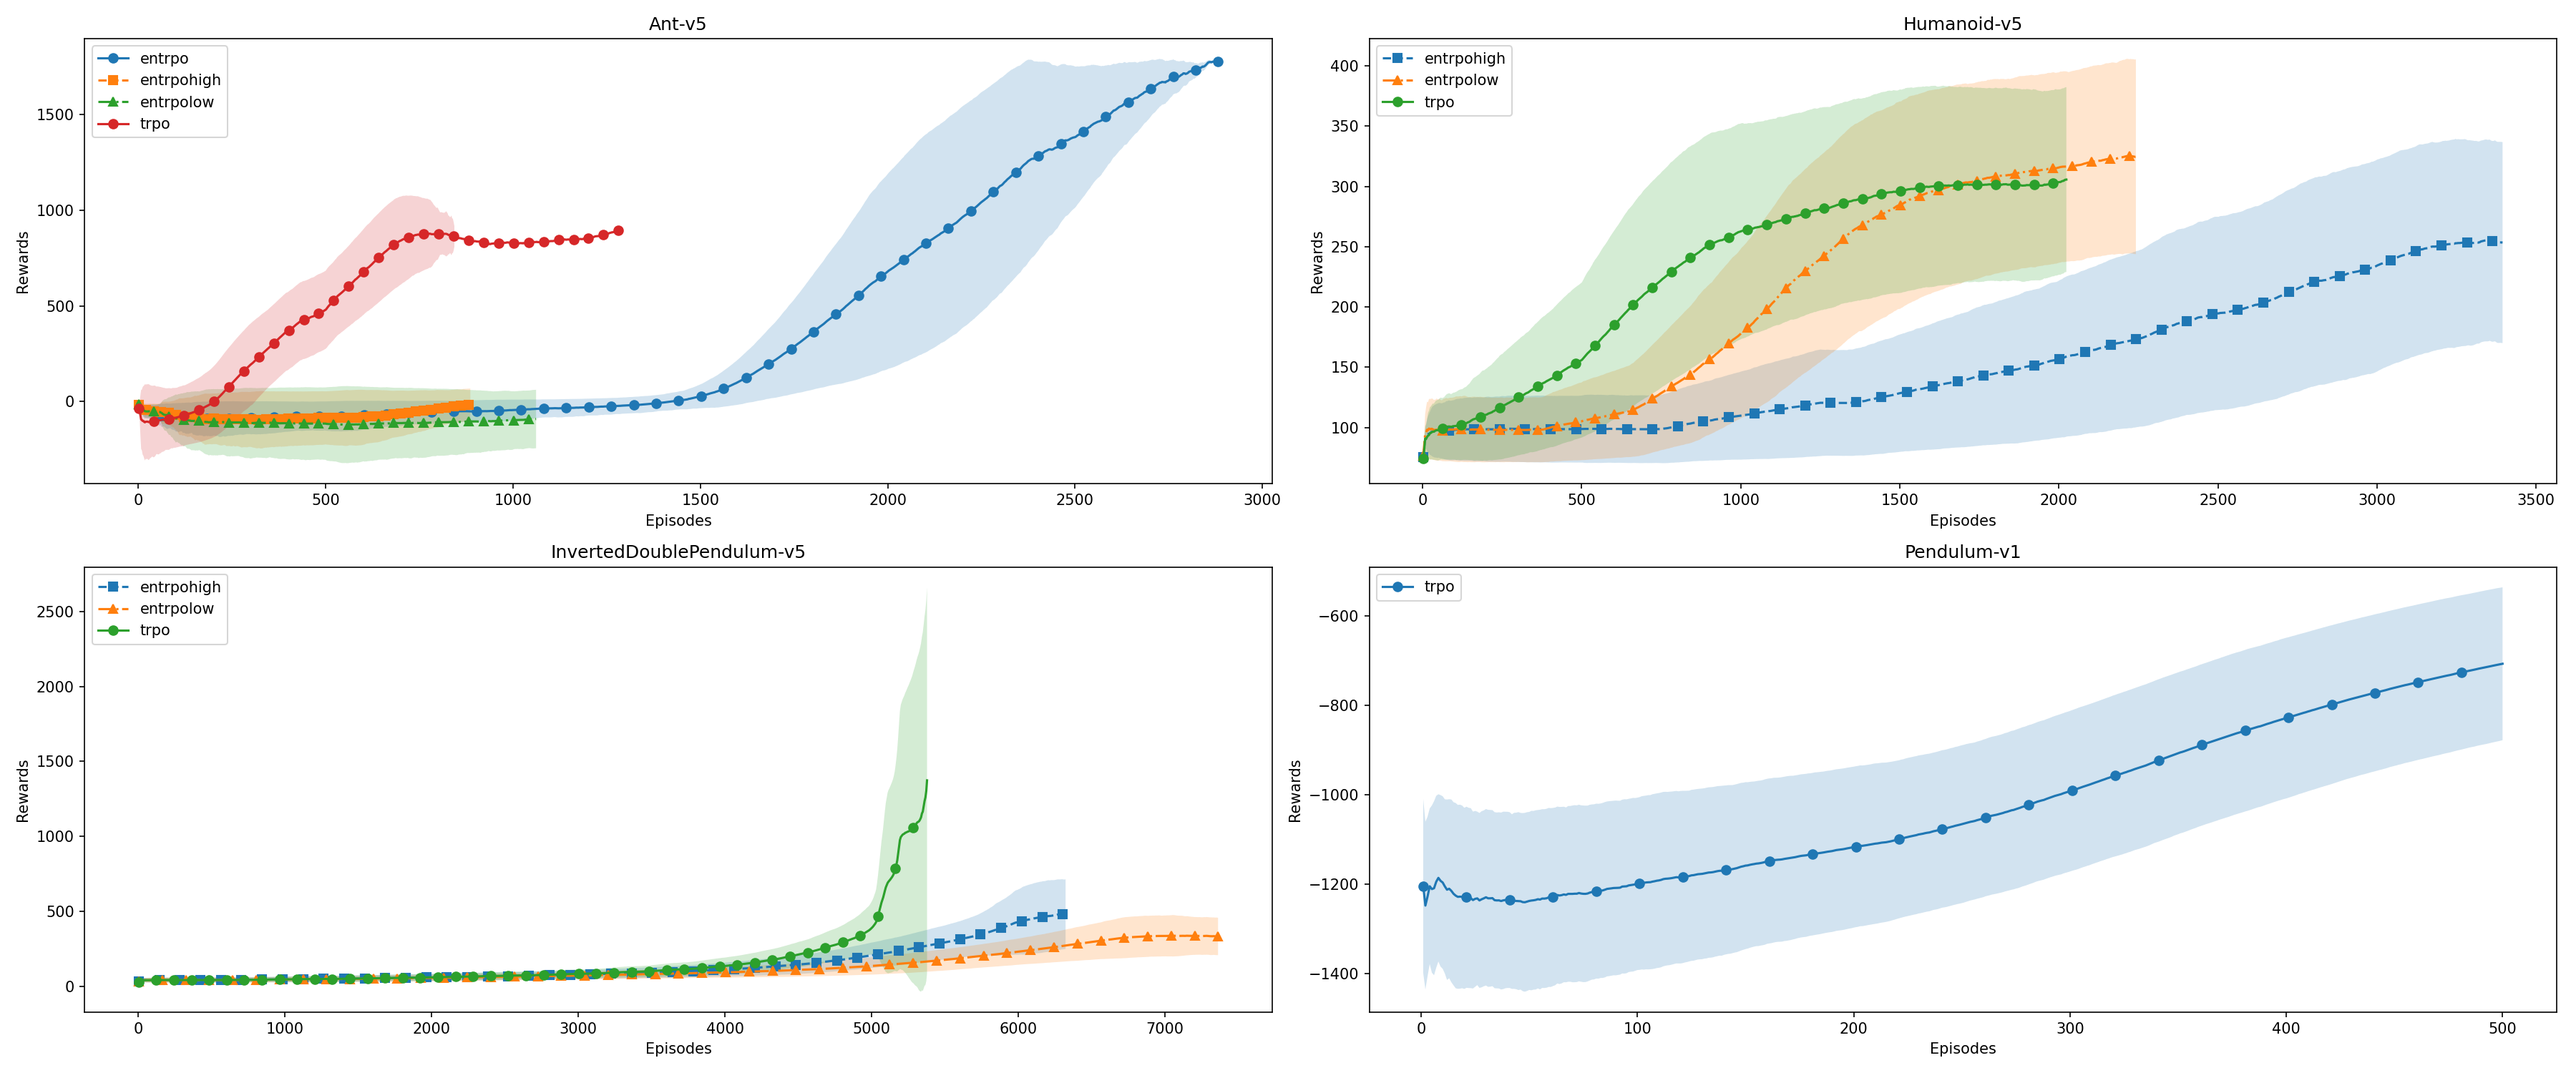
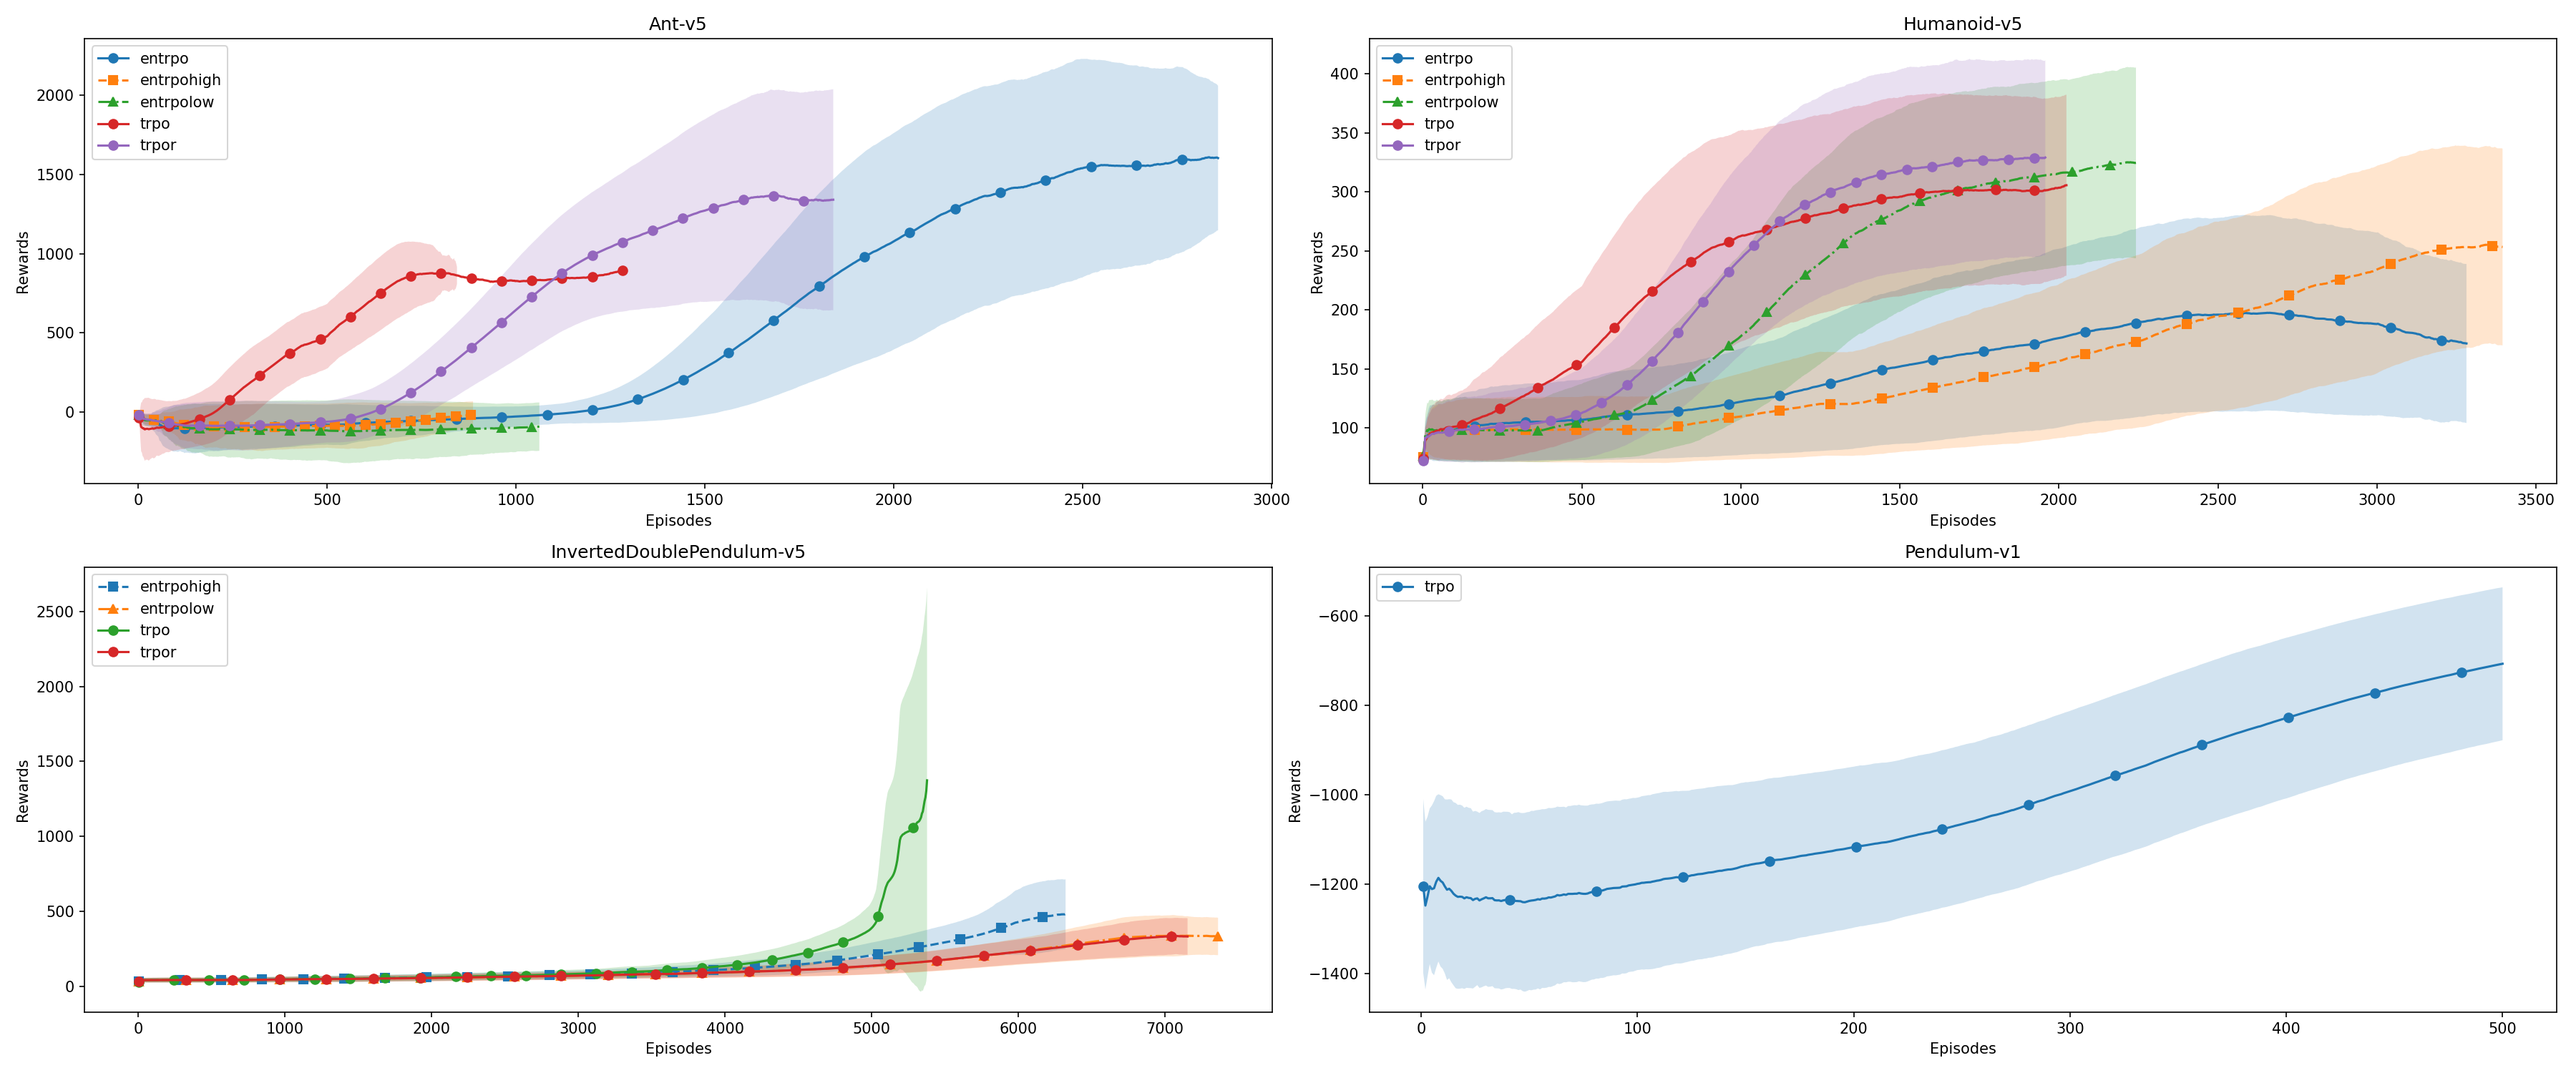
better plots

diff --git a/zoo/train_eval_plot.py b/zoo/train_eval_plot.py
@@ -52,7 +52,7 @@ def plot_all_from_csv(csv_path, results_dir, filter_envs=None, filter_models=Non
   line_styles = ["-", "--", "-.", ":"]
   markers = ["o", "s", "^", "D"]
   max_points = 1000
-  marker_interval = max(1, max_points // 50)
+  marker_interval = max(1, max_points // 25)
 
   # Predefine style and marker mappings for consistent ordering
   all_models = sorted(results_df["Model"].unique())
@@ -134,6 +134,12 @@ def group_paths_by_env(paths):
   return dict(grouped)
 
 
+def resample_to_fixed_points(run_data, num_points, common_timesteps):
+  normalized_timesteps = (run_data.index - run_data.index.min()) / (run_data.index.max() - run_data.index.min())
+  interpolated_rewards = np.interp(common_timesteps, normalized_timesteps, run_data["Reward"])
+  return pd.DataFrame({"Timesteps": common_timesteps, "Reward": interpolated_rewards})
+
+
 # Good
 def plot_from_path(env_path, results_dir, filter_envs=None, filter_models=None):
   csv_files = get_data_csv_files(env_path)
@@ -148,12 +154,164 @@ def plot_from_path(env_path, results_dir, filter_envs=None, filter_models=None):
     grouped = {env: [path for path in paths if any(model in path for model in filter_models)] for env, paths in grouped.items()}
 
   plot_rewards_from_grouped_paths(grouped, results_dir)
+  plot_sample_efficiency(grouped, results_dir)
+  plot_learning_stability(grouped, results_dir)
+  plot_learning_stability_cv(grouped, results_dir)
+  plot_sample_efficiency_combined(grouped, results_dir)
 
 
-def resample_to_fixed_points(run_data, num_points, common_timesteps):
-  normalized_timesteps = (run_data.index - run_data.index.min()) / (run_data.index.max() - run_data.index.min())
-  interpolated_rewards = np.interp(common_timesteps, normalized_timesteps, run_data["Reward"])
-  return pd.DataFrame({"Timesteps": common_timesteps, "Reward": interpolated_rewards})
+def plot_learning_stability_cv(grouped, results_dir, num_points=10000):
+  """
+    Plots learning stability using the Coefficient of Variation (CV) to show relative variability.
+
+    Args:
+        grouped (dict): Dictionary with environments as keys and lists of file paths as values.
+        results_dir (str): Directory to save the resulting plots.
+    """
+  os.makedirs(results_dir, exist_ok=True)
+
+  n_envs = len(grouped)
+  n_cols = (n_envs + 1) // 2
+  fig, axes = plt.subplots(2, n_cols, figsize=(12 * n_cols, 10), dpi=150)
+  axes = axes.flatten()
+
+  # Define consistent styles and markers
+  all_models = sorted(set(model for paths in grouped.values() for path in paths for model in [os.path.basename(os.path.dirname(os.path.dirname(path)))]))
+  line_styles = ["-", "--", "-.", ":"]
+  markers = ["o", "s", "^", "D"]
+  style_mapping = {model: line_styles[i % len(line_styles)] for i, model in enumerate(all_models)}
+  marker_mapping = {model: markers[i % len(markers)] for i, model in enumerate(all_models)}
+
+  for ax, (env, paths) in zip(axes, sorted(grouped.items())):
+    model_aggregated = {}
+    common_timesteps = np.linspace(0, 1, num=num_points)  # Normalize timesteps
+
+    for file_path in sorted(paths):
+      if os.path.exists(file_path):
+        model = os.path.basename(os.path.dirname(os.path.dirname(file_path)))  # Extract model name
+        run_data = pd.read_csv(file_path)
+        run_data.set_index("Timesteps", inplace=True)
+
+        # Resample rewards for consistent comparison
+        resampled_data = resample_to_fixed_points(run_data, num_points, common_timesteps)
+
+        downsampled_timesteps, downsampled_rewards = downsample_data_with_smoothing(
+          resampled_data.index, resampled_data["Reward"], max_points=100, window_size=1000
+        )
+
+        if model not in model_aggregated:
+          model_aggregated[model] = []
+        model_aggregated[model].append(pd.Series(downsampled_rewards, index=downsampled_timesteps))
+
+    for model in sorted(model_aggregated.keys()):
+      rewards_list = model_aggregated[model]
+      if rewards_list:
+        stacked_rewards = pd.concat(rewards_list, axis=1)
+        mean_rewards = stacked_rewards.mean(axis=1)
+        std_rewards = stacked_rewards.std(axis=1)
+
+        # Calculate Coefficient of Variation (CV)
+        cv = std_rewards / mean_rewards.replace(0, np.nan)  # Avoid division by zero
+
+        # Plot CV
+        ax.plot(mean_rewards.index, cv, label=f"{model} CV", linewidth=1.5, linestyle=style_mapping[model], marker=marker_mapping[model], markevery=5)
+
+    ax.set_title(f"Environment: {env}")
+    ax.set_xlabel("Normalized Episodes")
+    ax.set_ylabel("Coefficient of Variation (CV)")
+    ax.legend(loc="upper left")
+
+  for ax in axes[len(grouped) :]:
+    ax.axis("off")
+
+  plt.tight_layout()
+  plot_path = os.path.join(results_dir, "learning_stability_cv.png")
+  plt.savefig(plot_path, dpi=150)
+  plt.close()
+  print(f"Learning stability (CV) plot saved at: {plot_path}")
+
+
+def plot_learning_stability(grouped, results_dir, num_points=10000):
+  """
+    Plots learning stability by showing mean rewards with standard deviation as a shaded region.
+
+    Args:
+        grouped (dict): Dictionary with environments as keys and lists of file paths as values.
+        results_dir (str): Directory to save the resulting plots.
+    """
+  os.makedirs(results_dir, exist_ok=True)
+
+  n_envs = len(grouped)
+  n_cols = (n_envs + 1) // 2
+  fig, axes = plt.subplots(2, n_cols, figsize=(12 * n_cols, 10), dpi=150)
+  axes = axes.flatten()
+
+  # Define consistent styles and markers
+  all_models = sorted(set(model for paths in grouped.values() for path in paths for model in [os.path.basename(os.path.dirname(os.path.dirname(path)))]))
+  line_styles = ["-", "--", "-.", ":"]
+  markers = ["o", "s", "^", "D"]
+  style_mapping = {model: line_styles[i % len(line_styles)] for i, model in enumerate(all_models)}
+  marker_mapping = {model: markers[i % len(markers)] for i, model in enumerate(all_models)}
+
+  for ax, (env, paths) in zip(axes, sorted(grouped.items())):
+    model_aggregated = {}
+    common_timesteps = np.linspace(0, 1, num=num_points)  # Normalize timesteps
+
+    for file_path in sorted(paths):
+      if os.path.exists(file_path):
+        model = os.path.basename(os.path.dirname(os.path.dirname(file_path)))  # Extract model name
+        run_data = pd.read_csv(file_path)
+        run_data.set_index("Timesteps", inplace=True)
+
+        # Resample rewards for consistent comparison
+        resampled_data = resample_to_fixed_points(run_data, num_points, common_timesteps)
+
+        downsampled_timesteps, downsampled_rewards = downsample_data_with_smoothing(
+          resampled_data.index, resampled_data["Reward"], max_points=1000, window_size=500
+        )
+
+        if model not in model_aggregated:
+          model_aggregated[model] = []
+        model_aggregated[model].append(pd.Series(downsampled_rewards, index=downsampled_timesteps))
+
+    for model in sorted(model_aggregated.keys()):
+      rewards_list = model_aggregated[model]
+      if rewards_list:
+        stacked_rewards = pd.concat(rewards_list, axis=1)
+        mean_rewards = stacked_rewards.mean(axis=1)
+        std_rewards = stacked_rewards.std(axis=1)
+
+        # Plot mean with standard deviation
+        ax.fill_between(
+          mean_rewards.index,
+          mean_rewards - std_rewards,
+          mean_rewards + std_rewards,
+          alpha=0.2,
+          label=f"{model} ± std",
+        )
+        ax.plot(
+          mean_rewards.index,
+          mean_rewards,
+          label=model,
+          linewidth=1.5,
+          linestyle=style_mapping[model],
+          marker=marker_mapping[model],
+          markevery=50,
+        )
+
+    ax.set_title(f"Environment: {env}")
+    ax.set_xlabel("Normalized Episodes")
+    ax.set_ylabel("Reward")
+    ax.legend(loc="upper left")
+
+  for ax in axes[len(grouped) :]:
+    ax.axis("off")
+
+  plt.tight_layout()
+  plot_path = os.path.join(results_dir, "learning_stability.png")
+  plt.savefig(plot_path, dpi=150)
+  plt.close()
+  print(f"Learning stability plot saved at: {plot_path}")
 
 
 def plot_rewards_from_grouped_paths(grouped, results_dir, num_points=10000):
@@ -171,7 +329,7 @@ def plot_rewards_from_grouped_paths(grouped, results_dir, num_points=10000):
   style_mapping = {model: line_styles[i % len(line_styles)] for i, model in enumerate(all_models)}
   marker_mapping = {model: markers[i % len(markers)] for i, model in enumerate(all_models)}
   max_points = 1000
-  marker_interval = max(1, max_points // 50)
+  marker_interval = max(1, max_points // 25)
 
   for ax, (env, paths) in zip(axes, sorted(grouped.items())):  # Sort environments for consistent order
     model_aggregated = {}
@@ -232,6 +390,151 @@ def plot_rewards_from_grouped_paths(grouped, results_dir, num_points=10000):
   plt.savefig(plot_path, dpi=150)
   plt.close()
   print(f"Combined plot for all environments saved at: {plot_path}")
+
+
+def plot_sample_efficiency(grouped, results_dir, filter_envs=None, filter_models=None):
+  """
+    Plots sample efficiency for grouped paths based on episode counts within a fixed timestep budget.
+
+    Args:
+        grouped (dict): Dictionary with environments as keys and lists of file paths as values.
+        results_dir (str): Directory to save the resulting plots.
+    """
+  os.makedirs(results_dir, exist_ok=True)
+
+  n_envs = len(grouped)
+  n_cols = (n_envs + 1) // 2
+  fig, axes = plt.subplots(2, n_cols, figsize=(12 * n_cols, 10), dpi=150)
+  axes = axes.flatten()
+
+  # Define consistent styles and markers
+  all_models = sorted(set(model for paths in grouped.values() for path in paths for model in [os.path.basename(os.path.dirname(os.path.dirname(path)))]))
+  line_styles = ["-", "--", "-.", ":"]
+  markers = ["o", "s", "^", "D"]
+  style_mapping = {model: line_styles[i % len(line_styles)] for i, model in enumerate(all_models)}
+  marker_mapping = {model: markers[i % len(markers)] for i, model in enumerate(all_models)}
+
+  # Timestep budget
+  timestep_budget = 1_000_000
+
+  for ax, (env, paths) in zip(axes, sorted(grouped.items())):
+    model_episode_counts = {}
+
+    for file_path in sorted(paths):
+      if os.path.exists(file_path):
+        model = os.path.basename(os.path.dirname(os.path.dirname(file_path)))  # Extract model name
+        run_data = pd.read_csv(file_path)
+
+        # Filter data to only timesteps within the budget
+        within_budget = run_data[run_data["Timesteps"] <= timestep_budget]
+
+        # Count episodes within the budget
+        num_episodes = len(within_budget)
+
+        if model not in model_episode_counts:
+          model_episode_counts[model] = []
+        model_episode_counts[model].append(num_episodes)
+
+    # Plot episode counts for each model
+    for model in sorted(model_episode_counts.keys()):
+      episode_counts = model_episode_counts[model]
+      mean_episodes = np.mean(episode_counts)
+      std_episodes = np.std(episode_counts)
+
+      line_style = style_mapping[model]
+      marker = marker_mapping[model]
+
+      ax.bar(model, mean_episodes, yerr=std_episodes, capsize=5, label=model, alpha=0.75)
+
+    ax.set_title(f"Environment: {env}")
+    ax.set_ylabel("Episodes Completed")
+    ax.set_xlabel("Models")
+    ax.legend(loc="upper left")
+
+  for ax in axes[len(grouped) :]:
+    ax.axis("off")
+
+  plt.tight_layout()
+  plot_path = os.path.join(results_dir, "sample_efficiency.png")
+  plt.savefig(plot_path, dpi=150)
+  plt.close()
+  print(f"Sample efficiency plot saved at: {plot_path}")
+
+
+def plot_sample_efficiency_combined(grouped, results_dir, filter_envs=None, filter_models=None):
+  """
+    Plots combined sample efficiency for all environments based on episode counts within a fixed timestep budget.
+
+    Args:
+        grouped (dict): Dictionary with environments as keys and lists of file paths as values.
+        results_dir (str): Directory to save the resulting plot.
+        filter_envs (list): List of environments to include (default: all).
+        filter_models (list): List of models to include (default: all).
+    """
+  os.makedirs(results_dir, exist_ok=True)
+
+  # Define consistent styles and markers
+  all_models = sorted(set(model for paths in grouped.values() for path in paths for model in [os.path.basename(os.path.dirname(os.path.dirname(path)))]))
+  line_styles = ["-", "--", "-.", ":"]
+  markers = ["o", "s", "^", "D"]
+  style_mapping = {model: line_styles[i % len(line_styles)] for i, model in enumerate(all_models)}
+  marker_mapping = {model: markers[i % len(markers)] for i, model in enumerate(all_models)}
+
+  # Timestep budget
+  timestep_budget = 1_000_000
+  combined_model_data = {model: [] for model in all_models}
+
+  # Aggregate episode counts across environments
+  for env, paths in grouped.items():
+    if filter_envs and env not in filter_envs:
+      continue
+
+    model_episode_counts = {}
+
+    for file_path in sorted(paths):
+      if os.path.exists(file_path):
+        model = os.path.basename(os.path.dirname(os.path.dirname(file_path)))  # Extract model name
+        if filter_models and model not in filter_models:
+          continue
+
+        run_data = pd.read_csv(file_path)
+
+        # Filter data to only timesteps within the budget
+        within_budget = run_data[run_data["Timesteps"] <= timestep_budget]
+
+        # Count episodes within the budget
+        num_episodes = len(within_budget)
+
+        if model not in model_episode_counts:
+          model_episode_counts[model] = []
+        model_episode_counts[model].append(num_episodes)
+
+    for model, counts in model_episode_counts.items():
+      combined_model_data[model].extend(counts)
+
+  # Calculate mean and std for each model
+  aggregated_means = {model: np.mean(counts) if counts else 0 for model, counts in combined_model_data.items()}
+  aggregated_stds = {model: np.std(counts) if counts else 0 for model, counts in combined_model_data.items()}
+
+  # Plot combined bar chart
+  fig, ax = plt.subplots(figsize=(12, 8), dpi=150)
+  models = sorted(aggregated_means.keys())
+  means = [aggregated_means[model] for model in models]
+  stds = [aggregated_stds[model] for model in models]
+
+  ax.bar(models, means, yerr=stds, capsize=5, alpha=0.75)
+  ax.set_title("Combined Sample Efficiency Across Environments")
+  ax.set_ylabel("Average Episodes Completed")
+  ax.set_xlabel("Models")
+  ax.set_xticks(models)
+  ax.set_xticklabels(models, rotation=45, ha="right")
+
+  # Save the plot
+  plt.tight_layout()
+  plot_path = os.path.join(results_dir, "sample_efficiency_combined.png")
+  plt.savefig(plot_path, dpi=150)
+  plt.close()
+  print(f"Combined sample efficiency plot saved at: {plot_path}")
 
 
 if __name__ == "__main__":

diff --git a/zoo/train-eval.py b/zoo/train-eval.py
@@ -14,7 +14,6 @@ import yaml
 import Environments
 from Models.EnTRPO.EnTRPO import EnTRPO, EnTRPOHigh, EnTRPOLow, sample_entrpo_params
 from Models.SB3 import PPO, TRPO
-from Models.SBX import SAC, TQC
 from Models.TRPOQ.TRPOQ import TRPOQ, sample_trpoq_params
 from Models.TRPOQ.TRPOQ2 import TRPOQ2, sample_trpoq2_params
 from Models.TRPOQ.TRPOQH import TRPOQH, TRPOQHO, sample_trpoqh_params, sample_trpoqho_params
@@ -32,8 +31,6 @@ models = {
   "trpor": {"model": TRPOR, "sample": sample_trpor_params},
   "trpoqh": {"model": TRPOQH, "sample": sample_trpoqh_params},
   "trpoqho": {"model": TRPOQHO, "sample": sample_trpoqho_params},
-  "sac": {"model": SAC},
-  "tqc": {"model": TQC},
   "trpo": {"model": TRPO},
   "ppo": {"model": PPO},
 }
@@ -57,7 +54,7 @@ def load_reward_threshold(conf_file, env):
   raise ValueError(f"Reward threshold not found for environment: {env}")
 
 
-def evaluate_training(algo, env, n_eval_envs, device, optimize_hyperparameters, conf_file, n_trials, n_timesteps, n_jobs):
+def evaluate_training(algo, env, device, optimize_hyperparameters, conf_file, n_trials, n_timesteps, n_jobs):
   results_dir = "results/"
   csv_file = f"{results_dir}results.csv"
   os.makedirs(results_dir, exist_ok=True)
@@ -70,7 +67,7 @@ def evaluate_training(algo, env, n_eval_envs, device, optimize_hyperparameters, 
     exp_manager = configure(
       algo=algo,
       env=env,
-      n_eval_envs=n_eval_envs,
+      n_eval_envs=10,
       device=device,
       optimize_hyperparameters=optimize_hyperparameters,
       conf_file=conf_file,
@@ -135,7 +132,7 @@ if __name__ == "__main__":
   parser.add_argument("--conf_file", type=str, default=None)
   parser.add_argument("--trials", type=int, default=40)
   parser.add_argument("--n_jobs", type=int, default=10)
-  parser.add_argument("--n_timesteps", type=int, default=1000000)
+  parser.add_argument("--n_timesteps", type=int, default=100000)
 
   params = parser.parse_args()
 
